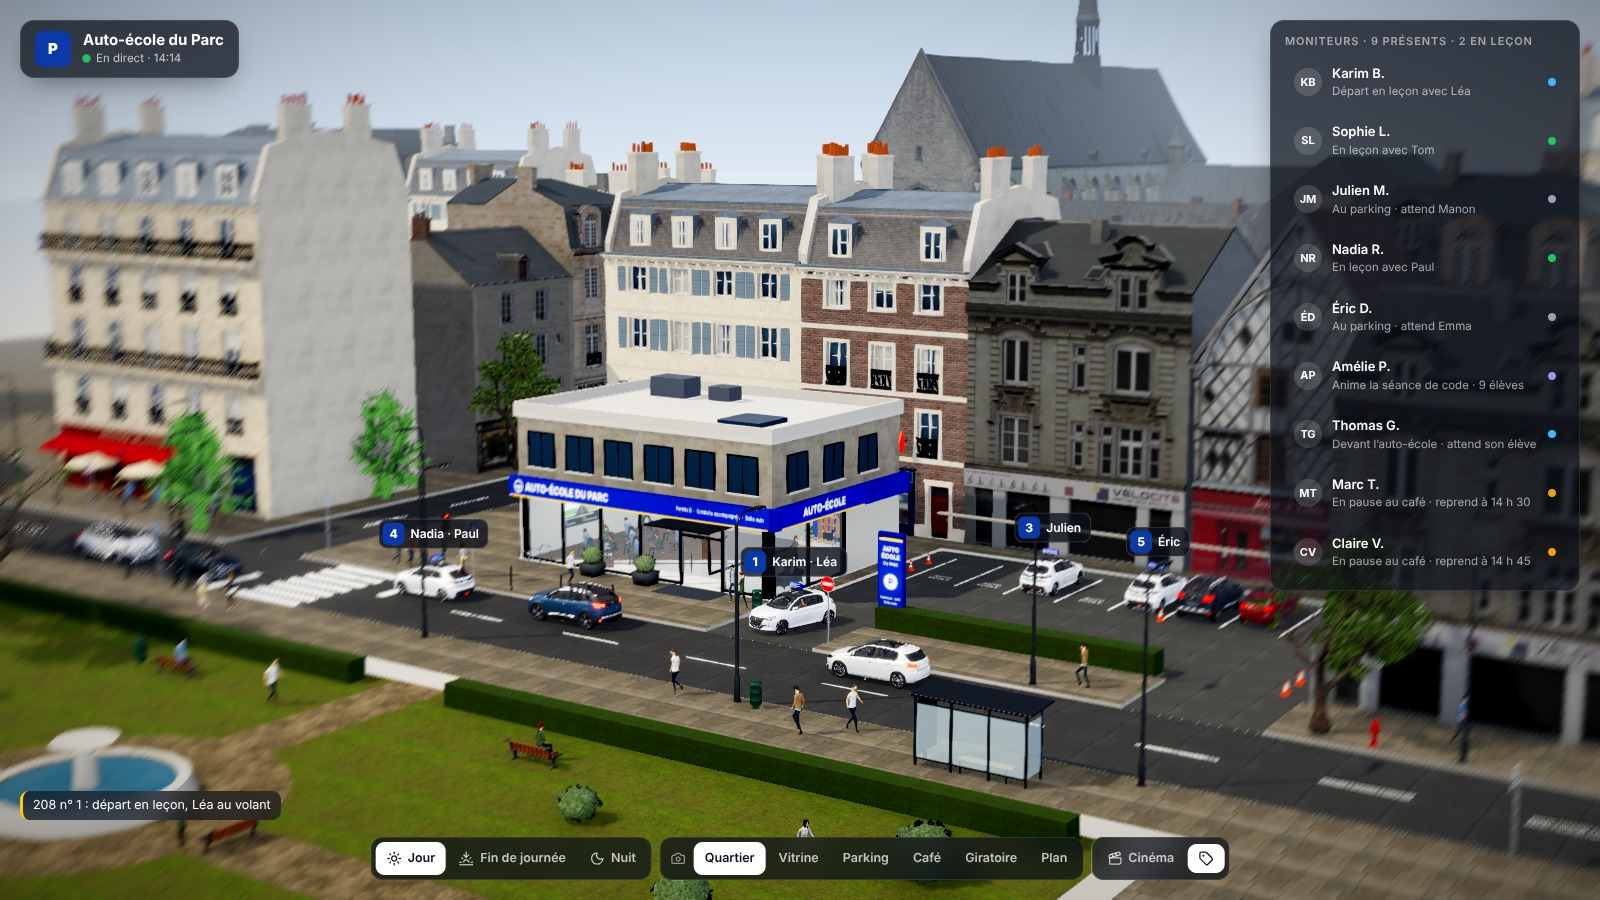
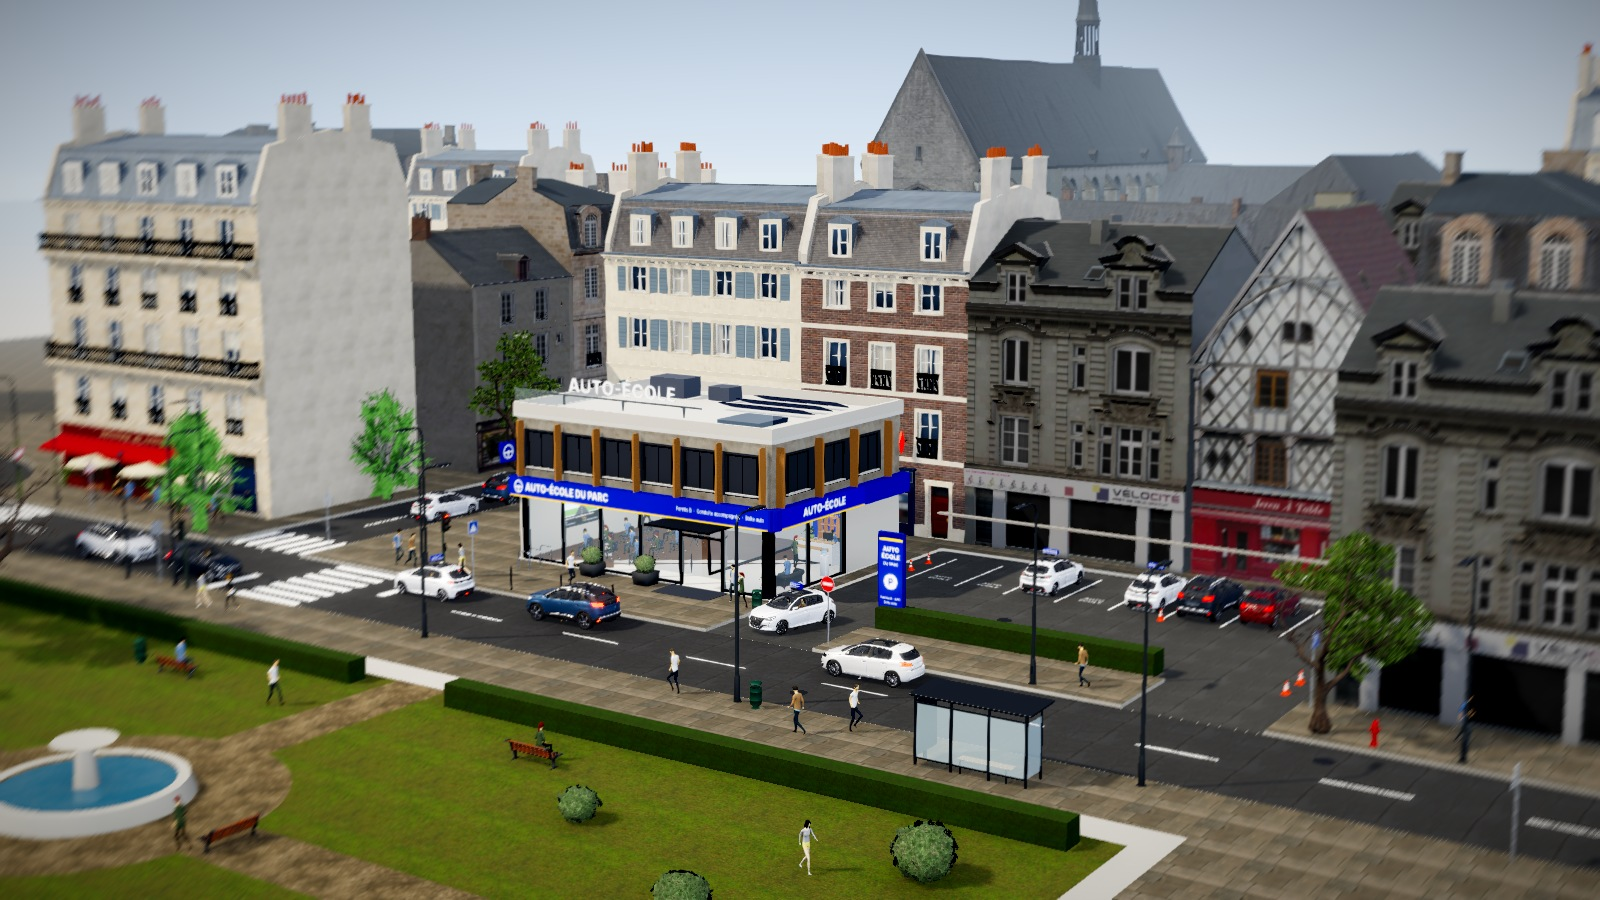
Auto-école 3D : bâtiment détaillé, passages piétons, stationnement
- Auto-école : brise-soleil bois, bandeau de fenêtres, lettres
  lumineuses en toiture, enseigne drapeau, spots, panneaux solaires
- Rue : passages piétons supplémentaires, plaques d'égout, voitures
  garées dans la rue transversale

Claude-Session: https://claude.ai/code/session_01Ftz5kshVwSpmbH6xVZJ7bz

diff --git a/auto-ecole/src/three/School.tsx b/auto-ecole/src/three/School.tsx
@@ -71,6 +71,8 @@ function useMats() {
       ceiling: new THREE.MeshStandardMaterial({ color: '#d8d5cd', roughness: 0.95, side: THREE.DoubleSide }),
       panel: new THREE.MeshStandardMaterial({ color: '#ffffff', emissive: '#fff4dd', emissiveIntensity: 0.75, roughness: 1 }),
       metal: new THREE.MeshStandardMaterial({ color: '#9aa0a8', roughness: 0.35, metalness: 0.85 }),
+      wood: new THREE.MeshStandardMaterial({ color: '#a8794a', roughness: 0.7 }),
+      solar: new THREE.MeshPhysicalMaterial({ color: '#10224a', roughness: 0.15, metalness: 0.6, clearcoat: 1, envMapIntensity: 1.6 }),
     }),
     [],
   )
@@ -149,12 +151,12 @@ function Fascia({ mats }: { mats: ReturnType<typeof useMats> }) {
   return (
     <group>
       <Box p={[(x0 + x1) / 2, y, zFront + 0.22]} s={[W + 0.5, hBand, 0.5]} m={mats.blue} />
-      <mesh position={[(x0 + x1) / 2, y, zFront + 0.475]} userData={{ glow: 1.6 }}>
+      <mesh position={[(x0 + x1) / 2, y, zFront + 0.475]} userData={{ glow: 0.55 }}>
         <planeGeometry args={[W + 0.3, hBand]} />
         <meshStandardMaterial map={tex} emissiveMap={tex} emissive="#ffffff" emissiveIntensity={0.25} roughness={0.55} />
       </mesh>
       <Box p={[x1 + 0.22, y, (zFront + zBack) / 2]} s={[0.5, hBand, D + 0.5]} m={mats.blue} />
-      <mesh position={[x1 + 0.475, y, zFront - 3.6]} rotation={[0, Math.PI / 2, 0]} userData={{ glow: 1.6 }}>
+      <mesh position={[x1 + 0.475, y, zFront - 3.6]} rotation={[0, Math.PI / 2, 0]} userData={{ glow: 0.55 }}>
         <planeGeometry args={[7, hBand]} />
         <meshStandardMaterial map={side} emissiveMap={side} emissive="#ffffff" emissiveIntensity={0.25} roughness={0.55} />
       </mesh>
@@ -167,6 +169,33 @@ function UpperFloor({ mats }: { mats: ReturnType<typeof useMats> }) {
   const h = SCHOOL.upperH
   const cy = UP0 + h / 2
   const upperGeo = useMemo(() => worldBox(W, h, D), [h])
+  const roundel = canvasTexture('roundel', 256, 256, (g, w, hh) => {
+    g.fillStyle = BRAND.color
+    g.fillRect(0, 0, w, hh)
+    g.strokeStyle = '#fff'
+    g.lineWidth = 16
+    g.beginPath()
+    g.arc(w / 2, hh / 2, 84, 0, Math.PI * 2)
+    g.stroke()
+    g.beginPath()
+    g.moveTo(w / 2 - 80, hh / 2 + 8)
+    g.lineTo(w / 2 + 80, hh / 2 + 8)
+    g.moveTo(w / 2, hh / 2 + 8)
+    g.lineTo(w / 2, hh / 2 + 80)
+    g.stroke()
+    g.fillStyle = '#fff'
+    g.beginPath()
+    g.arc(w / 2, hh / 2 + 6, 22, 0, Math.PI * 2)
+    g.fill()
+  })
+  const letters = canvasTexture('roof-letters', 2048, 256, (g, w, hh) => {
+    g.clearRect(0, 0, w, hh)
+    g.fillStyle = '#ffffff'
+    g.textAlign = 'center'
+    g.textBaseline = 'middle'
+    g.font = `800 212px ${FONT}`
+    g.fillText('AUTO-ÉCOLE', w / 2, hh / 2 + 10)
+  })
   const win = (key: string, p: [number, number, number], rot: number, w = 1.55) => (
     <group key={key} position={p} rotation={[0, rot, 0]}>
       <mesh material={mats.glassUp} position={[0, 0, 0.02]}>
@@ -182,6 +211,27 @@ function UpperFloor({ mats }: { mats: ReturnType<typeof useMats> }) {
   return (
     <group>
       <mesh position={[(x0 + x1) / 2, cy, (zFront + zBack) / 2]} material={plaster} geometry={upperGeo} castShadow receiveShadow />
+      {/* bandeau sombre qui relie les fenêtres (façade sud et pignon est) */}
+      <Box p={[(x0 + x1) / 2, cy + 0.1, zFront + 0.012]} s={[W - 0.7, 2.0, 0.03]} m={mats.dark} shadow={false} />
+      <Box p={[x1 + 0.012, cy + 0.1, -14]} s={[0.03, 2.0, 8.4]} m={mats.dark} shadow={false} />
+      {/* brise-soleil verticaux en bois entre les travées */}
+      {Array.from({ length: BAYS + 1 }, (_, i) => (
+        <Box key={`fin${i}`} p={[bayX(i), cy + 0.1, zFront + 0.22]} s={[0.1, h - 0.5, 0.42]} m={mats.wood} />
+      ))}
+      {[-9.4, -12.5, -15.5, -18.6].map((z) => (
+        <Box key={`finE${z}`} p={[x1 + 0.22, cy + 0.1, z]} s={[0.42, h - 0.5, 0.1]} m={mats.wood} />
+      ))}
+      {/* enseigne drapeau à l'angle ouest */}
+      <group position={[x0 - 0.62, UP0 + 1.5, zFront + 0.1]}>
+        <Box p={[0.3, 0.52, 0]} s={[0.7, 0.05, 0.05]} m={mats.frame} shadow={false} />
+        <Box p={[0, 0, 0]} s={[0.12, 1.0, 1.0]} m={mats.blue} />
+        {[0.062, -0.062].map((dx, i) => (
+          <mesh key={dx} position={[dx, 0, 0]} rotation={[0, i ? -Math.PI / 2 : Math.PI / 2, 0]} userData={{ glow: 1.8 }}>
+            <planeGeometry args={[0.96, 0.96]} />
+            <meshStandardMaterial map={roundel} emissiveMap={roundel} emissive="#ffffff" emissiveIntensity={0.3} roughness={0.5} />
+          </mesh>
+        ))}
+      </group>
       {Array.from({ length: BAYS }, (_, i) => win(`f${i}`, [bayX(i) + bayW / 2, cy + 0.1, zFront], 0))}
       {[-11, -14, -17].map((z) => win(`e${z}`, [x1, cy + 0.1, z], Math.PI / 2))}
       {[-11, -14, -17].map((z) => win(`w${z}`, [x0, cy + 0.1, z], -Math.PI / 2))}
@@ -198,6 +248,29 @@ function UpperFloor({ mats }: { mats: ReturnType<typeof useMats> }) {
       <Box p={[x0 + 3.2, UP1 + 0.75, zBack + 2.6]} s={[2.2, 1.0, 1.4]} m={mats.metal} />
       <Box p={[x0 + 6.2, UP1 + 0.6, zBack + 2.4]} s={[1.3, 0.7, 1.1]} m={mats.metal} />
       <Box p={[x1 - 3.5, UP1 + 0.3, zFront - 3.5]} s={[2.4, 0.25, 2.4]} m={mats.glassUp} />
+      {/* lettres lumineuses en toiture */}
+      <group position={[(x0 + x1) / 2 - 1.2, UP1 + 0.7, zFront - 0.25]}>
+        {[-3.6, 0, 3.6].map((dx) => (
+          <Box key={dx} p={[dx, 0.25, -0.12]} s={[0.07, 0.5, 0.07]} m={mats.frame} shadow={false} />
+        ))}
+        <Box p={[0, 0.5, -0.12]} s={[9.2, 0.06, 0.06]} m={mats.frame} shadow={false} />
+        <mesh position={[0, 1.02, 0]} userData={{ glow: 2.2 }} castShadow>
+          <planeGeometry args={[9.4, 1.12]} />
+          <meshStandardMaterial map={letters} emissiveMap={letters} emissive="#ffffff" emissiveIntensity={0.18} alphaTest={0.5} side={THREE.DoubleSide} roughness={0.6} />
+        </mesh>
+      </group>
+      {/* panneaux solaires */}
+      {[0, 1, 2].map((r) =>
+        [0, 1, 2, 3].map((c) => (
+          <mesh key={`${r}${c}`} position={[x1 - 6.6 + c * 1.25, UP1 + 0.42, zBack + 1.6 + r * 1.5]} rotation={[-0.3, 0, 0]} material={mats.solar} castShadow>
+            <boxGeometry args={[1.15, 0.04, 1.25]} />
+          </mesh>
+        )),
+      )}
+      {/* garde-corps vitré côté rue */}
+      <mesh position={[(x0 + x1) / 2, UP1 + 1.05, zFront + 0.05]} material={mats.glass} renderOrder={5}>
+        <planeGeometry args={[W + 0.2, 0.7]} />
+      </mesh>
     </group>
   )
 }
@@ -323,7 +396,7 @@ function Interior({ mats }: { mats: ReturnType<typeof useMats> }) {
       {/* salle de code : écran mural + chaises */}
       <group position={[x0 + 0.27, 2.05, -13.3]} rotation={[0, Math.PI / 2, 0]}>
         <Box p={[0, 0, -0.03]} s={[3.1, 1.85, 0.07]} m={mats.dark} shadow={false} />
-        <mesh position={[0, 0, 0.012]} userData={{ glow: 1.3 }}>
+        <mesh position={[0, 0, 0.012]} userData={{ glow: 0.25 }}>
           <planeGeometry args={[2.95, 1.66]} />
           <meshStandardMaterial map={screen} emissiveMap={screen} emissive="#ffffff" emissiveIntensity={0.9} roughness={0.4} />
         </mesh>
@@ -397,6 +470,13 @@ export function School() {
       {/* dalle haute */}
       <Box p={[(x0 + x1) / 2, CEIL + SLAB / 2, zc]} s={[W + 0.1, SLAB, D + 0.1]} m={mats.concrete} />
 
+      {/* spots encastrés sous le bandeau d'enseigne */}
+      {Array.from({ length: BAYS * 2 }, (_, i) => (
+        <mesh key={`spot${i}`} position={[x0 + 0.9 + (i * (W - 1.8)) / (BAYS * 2 - 1), CEIL - 0.015, zFront + 0.28]} rotation={[Math.PI / 2, 0, 0]} userData={{ glow: 3 }}>
+          <circleGeometry args={[0.07, 12]} />
+          <meshStandardMaterial color="#fff6e0" emissive="#ffe8b8" emissiveIntensity={0.4} />
+        </mesh>
+      ))}
       <Interior mats={mats} />
       <Fascia mats={mats} />
       <UpperFloor mats={mats} />

diff --git a/auto-ecole/src/three/Ground.tsx b/auto-ecole/src/three/Ground.tsx
@@ -114,6 +114,9 @@ function Markings() {
     for (const out of [-1, 1]) for (let x = R.x + R.outerR + 1; x < 150; x += 6.5) q.push({ x: out * (x + 1.5), z: 0, w: 3, d: 0.12 })
     // passage piéton
     for (let z = -ROAD_HALF + 0.45; z < ROAD_HALF; z += 1.0) q.push({ x: CROSSING.x, z, w: CROSSING.half * 2, d: 0.5 })
+    // autres passages piétons : avant chaque giratoire, et à l'entrée de la rue transversale
+    for (const cx of [-(R.x - R.outerR - 5), R.x - R.outerR - 5]) for (let z = -ROAD_HALF + 0.45; z < ROAD_HALF; z += 1.0) q.push({ x: cx, z, w: 3.2, d: 0.5 })
+    for (let x = SIDE_STREET.x - SIDE_STREET.half + 0.45; x < SIDE_STREET.x + SIDE_STREET.half; x += 1.0) q.push({ x, z: -ROAD_HALF - 1.9, w: 0.5, d: 3 })
     // lignes d'arrêt
     q.push({ x: CROSSING.stopNorthLane + 0.5, z: -LANE, w: 0.5, d: 3.1 })
     q.push({ x: CROSSING.stopSouthLane - 0.5, z: LANE, w: 0.5, d: 3.1 })
@@ -160,6 +163,17 @@ function Markings() {
   })
 
   const mat = useMemo(() => new THREE.MeshStandardMaterial({ color: '#f1f1ee', roughness: 0.75, polygonOffset: true, polygonOffsetFactor: -2, polygonOffsetUnits: -2 }), [])
+  // regards et plaques d'égout : petits détails qui cassent l'uniformité du bitume
+  const covers = useMemo(() => {
+    const pts: [number, number, number][] = [[-38, 1.9, 0.38], [-9, -1.6, 0.38], [12, 1.5, 0.34], [31, -1.9, 0.38], [44, 0.6, 0.3], [-27, -0.4, 0.3], [SIDE_STREET.x + 0.8, -22, 0.38], [SIDE_STREET.x - 1, -41, 0.34], [LOT.x0 + 9, LOT.aisleZ + 0.6, 0.34], [-52, 4.5, 0.38], [55, -5, 0.38]]
+    return pts.map(([x, z, r]) => {
+      const g = new THREE.CircleGeometry(r, 20)
+      g.rotateX(-Math.PI / 2)
+      g.translate(x, 0.011, z)
+      return g
+    })
+  }, [])
+  const coverMat = useMemo(() => new THREE.MeshStandardMaterial({ color: '#3b3d42', roughness: 0.55, metalness: 0.7, polygonOffset: true, polygonOffsetFactor: -2, polygonOffsetUnits: -2 }), [])
   const stencilMat = useMemo(
     () => new THREE.MeshStandardMaterial({ map: stencil, transparent: true, opacity: 0.85, roughness: 0.8, polygonOffset: true, polygonOffsetFactor: -2, polygonOffsetUnits: -2, depthWrite: false }),
     [stencil],
@@ -168,6 +182,9 @@ function Markings() {
   return (
     <group>
       <mesh geometry={geo} material={mat} receiveShadow />
+      {covers.map((g, i) => (
+        <mesh key={`c${i}`} geometry={g} material={coverMat} receiveShadow />
+      ))}
       {rings.map((g, i) => (
         <mesh key={i} geometry={g} material={mat} receiveShadow />
       ))}

diff --git a/auto-ecole/src/three/Vehicles.tsx b/auto-ecole/src/three/Vehicles.tsx
@@ -5,7 +5,7 @@ import * as THREE from 'three'
 import { MODELS, modelInfo, modelUrl } from '../assets'
 import { sim, useUi } from '../store'
 import type { Vehicle } from '../sim/sim'
-import { BRAND, LOT } from '../world'
+import { BRAND, LOT, SIDE_STREET } from '../world'
 import { canvasTexture, FONT } from './materials'
 import { nightFactor } from './daylight'
 import { Occupant } from './People'
@@ -255,13 +255,17 @@ export function Vehicles() {
   const hasSchoolCar = MODELS.cars.some((c) => c.file === SCHOOL_CAR)
   const fileFor = (v: Vehicle) => (v.kind === 'school' ? (hasSchoolCar ? SCHOOL_CAR : traffic[0]?.file) : (traffic[v.model % Math.max(1, traffic.length)]?.file ?? (hasSchoolCar ? SCHOOL_CAR : undefined)))
   const parked = useMemo(() => {
-    const pool = traffic.length ? traffic.map((t) => t.file) : hasSchoolCar ? [SCHOOL_CAR] : []
+    const pool = [...traffic.map((t) => t.file), ...(hasSchoolCar ? [SCHOOL_CAR] : [])]
     if (!pool.length) return []
-    const colors = ['#2b3440', '#7c1d1d', '#d8d9dc', '#3f5670']
-    return [
+    const colors = ['#2b3440', '#7c1d1d', '#d8d9dc', '#3f5670', '#8b8f96', '#1d3b2f', '#c7b28a', '#111418']
+    const out = [
       { file: pool[0], x: LOT.spotsX[5], z: LOT.spotZ + 0.2, heading: Math.PI, color: colors[0] },
       { file: pool[1 % pool.length], x: LOT.spotsX[6], z: LOT.spotZ - 0.1, heading: Math.PI, color: colors[1] },
     ]
+    // stationnement le long de la rue transversale
+    const xE = SIDE_STREET.x + SIDE_STREET.half - 1.05
+    ;[-14.5, -20.2, -26.4, -37, -43.1, -55].forEach((z, i) => out.push({ file: pool[(i + 2) % pool.length], x: xE, z, heading: Math.PI + (i % 2 ? 0.02 : -0.015), color: colors[(i + 2) % colors.length] }))
+    return out
   }, [traffic, hasSchoolCar])
 
   return (
